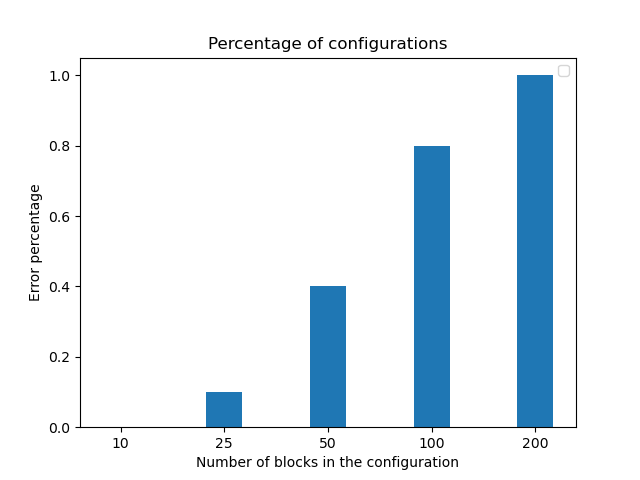
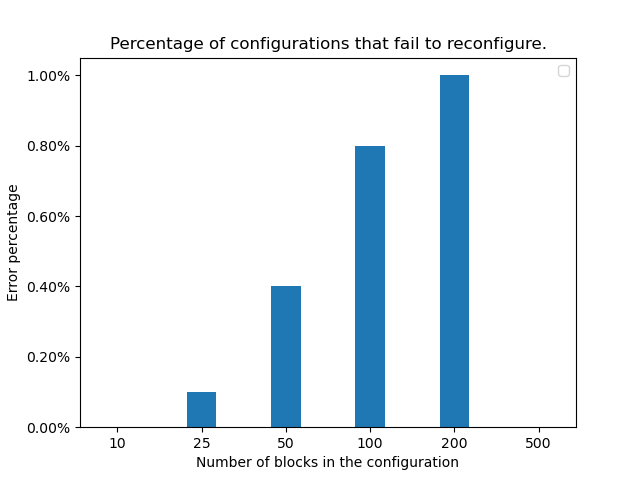
extra result visualisations

diff --git a/results/visualisation/visualisation.py b/results/visualisation/visualisation.py
@@ -1,4 +1,5 @@
 import matplotlib.pyplot as plt
+import matplotlib.ticker as mtick
 import pandas as pd
 import numpy as np
 import json
@@ -37,7 +38,7 @@ for size in sizes:
         parallel_avgs.append(obj['avg_moves_monotone'])
         sequential_avgs.append(obj['avg_moves_seq']) 
         
-        error_percentage = (len(obj['errors_monotone'])/shapes_num)
+        error_percentage = (len(obj['errors_monotone'])/shapes_num)*100
         error_percentages.append(error_percentage) 
 
         fill_nums = [fill for fill, _, _ in obj['all_move_nums']]
@@ -73,6 +74,8 @@ ax.set_xlabel('Number of blocks in the configuration')
 
 # Set the y-axis label
 ax.set_ylabel('Average number of moves')
+ax.set_yscale('log')
+
 
 # Set the chart title
 ax.set_title('Average number of moves for both algorithms')
@@ -94,9 +97,9 @@ bar_width = 0.25
 
 # Create the double bar chart
 fig, ax = plt.subplots()
-fill_bars = ax.bar(x - bar_width, fill_avgs, bar_width, label='Fill Boundary')
-lshaped_bars = ax.bar(x, lshaped_avgs, bar_width, label='L-shaped moves')
-empty_bars = ax.bar(x + bar_width, empty_avgs, bar_width, label='Empty Boundary')
+fill_bars = ax.bar(x - bar_width, fill_avgs, bar_width, label='Stage 1 (Fill)')
+lshaped_bars = ax.bar(x, lshaped_avgs, bar_width, label='Stage 2 (L-move)')
+empty_bars = ax.bar(x + bar_width, empty_avgs, bar_width, label='Stage 3 (Empty)')
 
 # Set the x-axis labels
 ax.set_xticks(x)
@@ -105,6 +108,8 @@ ax.set_xlabel('Number of blocks in the configuration')
 
 # Set the y-axis label
 ax.set_ylabel('Average number of moves')
+# ax.set_yscale('log')
+
 
 # Set the chart title
 ax.set_title('Average number of moves for the different stages per number of blocks')
@@ -137,8 +142,11 @@ ax.set_xlabel('Number of blocks in the configuration')
 # Set the y-axis label
 ax.set_ylabel('Error percentage')
 
+# Format the y-axis ticks as percentages
+ax.yaxis.set_major_formatter(mtick.PercentFormatter())
+
 # Set the chart title
-ax.set_title('Percentage of configurations')
+ax.set_title('Percentage of configurations that fail to reconfigure.')
 
 # Add a legend
 ax.legend()
